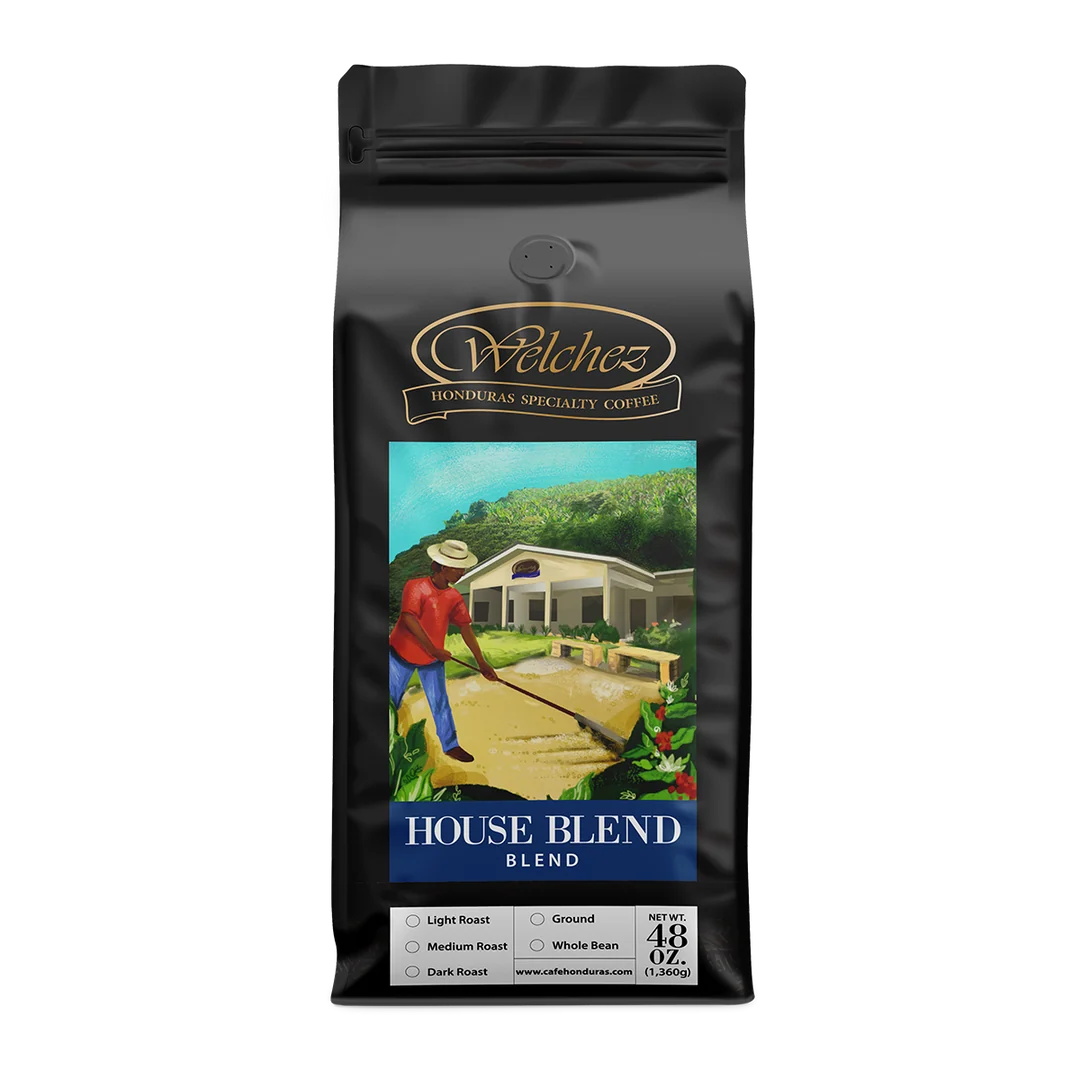
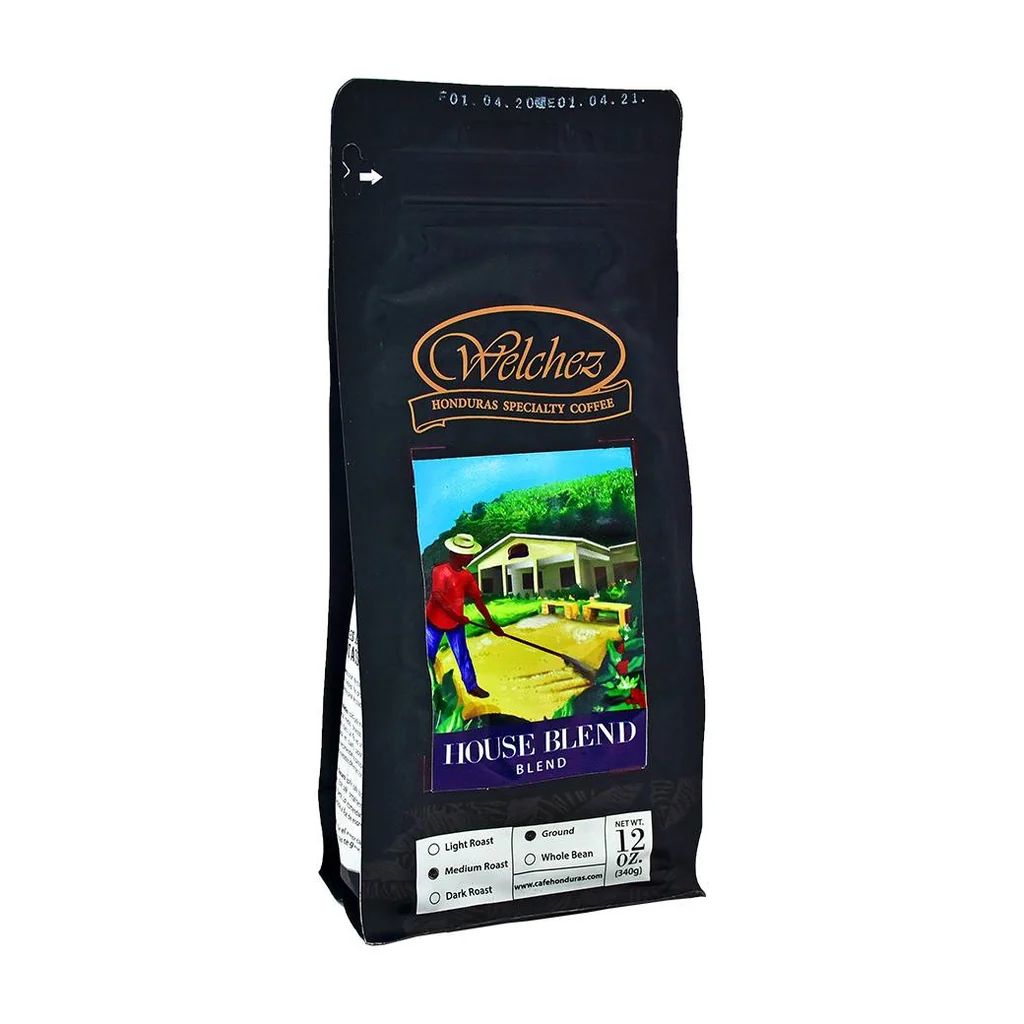
Update pricing, shipping threshold, partner brands, and Welchez images
- Raise all partner brand prices to 3x–4x Honduras retail markup
- Remove Welchez Seasonal Blend and Signature Blend products
- Update free shipping threshold from $60 to $100 (FedEx/DHL Express, worldwide)
- Replace Welchez product images with new photos
- Remove 48oz size options from Welchez; all Café Maya products now 12oz only
- Update llms.txt with full product catalog, correct prices, and partner brands

Changed region(s): [[0.2812, 0.0312, 0.7188, 0.9375]]

diff --git a/src/data/products.ts b/src/data/products.ts
@@ -30,7 +30,7 @@ export const products: Product[] = [
     prices: { '250g': 18, '500g': 32, '1kg': 58 },
     image: '/images/balam.jpg',
     metaTitle: 'Balam Dark Roast — Single Origin Honduras Coffee | Mayan Origin',
-    metaDescription: 'Balam is a single origin dark roast specialty coffee from Copán, Honduras — 1,400–1,600 masl. Dark chocolate, smoky cedar, dried cherry. Direct trade from CAFICO cooperative. Free shipping over $60.',
+    metaDescription: 'Balam is a single origin dark roast specialty coffee from Copán, Honduras — 1,400–1,600 masl. Dark chocolate, smoky cedar, dried cherry. Direct trade from CAFICO cooperative. Free Express shipping over $100.',
   },
   {
     slug: 'ixchel',
@@ -45,7 +45,7 @@ export const products: Product[] = [
     prices: { '250g': 19, '500g': 34, '1kg': 62 },
     image: '/images/ixchel.jpg',
     metaTitle: 'Ixchel Light Roast — Single Origin Honduras Coffee | Mayan Origin',
-    metaDescription: 'Ixchel is a single origin light roast specialty coffee from Copán, Honduras — natural process, 1,500–1,700 masl. Jasmine, white peach, honey finish. Direct trade from CAFICO. Free shipping over $60.',
+    metaDescription: 'Ixchel is a single origin light roast specialty coffee from Copán, Honduras — natural process, 1,500–1,700 masl. Jasmine, white peach, honey finish. Direct trade from CAFICO. Free Express shipping over $100.',
   },
   {
     slug: 'kukulkan',
@@ -60,7 +60,7 @@ export const products: Product[] = [
     prices: { '250g': 17, '500g': 30, '1kg': 55 },
     image: '/images/kukulkan.jpg',
     metaTitle: 'Kukulkan Medium Roast — Single Origin Honduras Coffee | Mayan Origin',
-    metaDescription: 'Kukulkan is a single origin medium roast specialty coffee from Copán, Honduras — honey process, 1,350–1,550 masl. Brown sugar, toasted almond, clean citrus. Direct trade from COCAFCAL. Free shipping over $60.',
+    metaDescription: 'Kukulkan is a single origin medium roast specialty coffee from Copán, Honduras — honey process, 1,350–1,550 masl. Brown sugar, toasted almond, clean citrus. Direct trade from COCAFCAL. Free Express shipping over $100.',
   },
   {
     slug: 'welchez-house-blend',
@@ -72,7 +72,7 @@ export const products: Product[] = [
     origin: 'Copán, Honduras',
     process: 'Natural + Washed',
     altitude: '1,000–1,300 masl',
-    prices: { '12oz': 12, '48oz': 48 },
+    prices: { '12oz': 29 },
     image: '/images/welchez-house-blend.webp',
     brand: 'Café Welchez',
     metaTitle: 'Café Welchez House Blend — Honduras Specialty Coffee | Mayan Origin',
@@ -89,46 +89,12 @@ export const products: Product[] = [
     origin: 'Santa Isabel Farm, Copán, Honduras',
     process: 'Washed',
     altitude: '1,000–1,300 masl',
-    prices: { '12oz': 10, '48oz': 38 },
+    prices: { '12oz': 25 },
     image: '/images/welchez-santa-isabel.webp',
     brand: 'Café Welchez',
     metaTitle: 'Café Welchez Santa Isabel — Single Origin Honduras Coffee | Mayan Origin',
     metaDescription: 'Santa Isabel is a single origin light roast from Santa Isabel Farm, Copán, Honduras. Varieties: Parainema, Catuaí, Caturra. Sweet, acidic, chocolatey aroma. Small-batch, direct-trade Honduras coffee.',
     ingredients: '100% Single-Origin Arabica Coffee — Santa Isabel Farm, Copán, Honduras. Varieties: Parainema, Catuaí, Caturra. Nothing added.',
-  },
-  {
-    slug: 'welchez-seasonal-blend',
-    name: 'Seasonal Blend',
-    subtitle: 'Café Welchez',
-    description:
-      'Honduras specialty coffee that changes with every harvest. Sourced by Café Welchez from arabica farms at 1,000–1,300 masl — process varies (washed, honey, natural, or soaking) to showcase what each season delivers. A small-batch Honduras coffee experience that is never quite the same twice.',
-    roast: 'Medium Roast',
-    origin: 'Honduras',
-    process: 'Varies by harvest (washed, honey, natural)',
-    altitude: '1,000–1,300 masl',
-    prices: { '12oz': 12, '48oz': 48 },
-    image: '/images/welchez-seasonal-blend.webp',
-    brand: 'Café Welchez',
-    metaTitle: 'Café Welchez Seasonal Blend — Small-Batch Honduras Coffee | Mayan Origin',
-    metaDescription: 'Café Welchez Seasonal Blend — a small-batch Honduras specialty coffee that changes each harvest. Process varies: washed, honey, or natural. Grown at 1,000–1,300 masl. Ships from Honduras.',
-    ingredients: '100% Arabica Coffee — Honduras. Process and variety vary by harvest season. Nothing added.',
-  },
-  {
-    slug: 'welchez-signature-blend',
-    name: 'Signature Blend',
-    subtitle: 'Café Welchez',
-    description:
-      'A Honduras specialty coffee from microlots at 1,400–1,500 masl. This small-batch blend of Java, Catuaí, and Parainema brings caramelized sugars to the surface — chocolaty flavor with surprising citrus notes, good body, and marked acidity. Roasted by Café Welchez, direct-trade from Copán.',
-    roast: 'Medium Roast',
-    origin: 'Copán, Honduras',
-    process: 'Washed',
-    altitude: '1,400–1,500 masl',
-    prices: { '12oz': 15, '48oz': 60 },
-    image: '/images/welchez-signature-blend.webp',
-    brand: 'Café Welchez',
-    metaTitle: 'Café Welchez Signature Blend — Honduras Specialty Coffee | Mayan Origin',
-    metaDescription: 'Café Welchez Signature Blend — microlot Honduras specialty coffee from Copán, 1,400–1,500 masl. Java, Catuaí, Parainema. Chocolate, citrus, caramelized sugars. Small-batch, direct-trade.',
-    ingredients: '100% Arabica Coffee — Copán, Honduras. Varieties: Java, Catuaí, Parainema. Nothing added.',
   },
   {
     slug: 'cafe-maya-coffee-club',
@@ -140,7 +106,7 @@ export const products: Product[] = [
     origin: 'Honduras',
     process: 'Washed',
     altitude: 'High altitude Honduras',
-    prices: { 'Whole Bean 12oz': 13, 'Ground 12oz': 13 },
+    prices: { 'Whole Bean 12oz': 23, 'Ground 12oz': 21 },
     image: '/images/cafe-maya-coffee-club.webp',
     secondaryImage: '/images/cafe-maya-coffee-club-ground.webp',
     brand: 'Café Maya',
@@ -158,7 +124,7 @@ export const products: Product[] = [
     origin: 'Honduras',
     process: 'Washed',
     altitude: 'High altitude Honduras',
-    prices: { '340g': 14 },
+    prices: { '12oz': 17 },
     image: '/images/cafe-maya-reserva.webp',
     brand: 'Café Maya',
     metaTitle: 'Café Maya Reserva — Premium Honduras Coffee | Mayan Origin',
@@ -175,7 +141,7 @@ export const products: Product[] = [
     origin: 'Finca El Zapote, Siguatepeque, Honduras',
     process: 'Washed',
     altitude: '1,550 masl',
-    prices: { '16oz': 18 },
+    prices: { '16oz': 28 },
     image: '/images/sigua-finca-el-zapote.webp',
     brand: 'Sigua Coffee',
     metaTitle: 'Sigua Coffee Finca El Zapote — Single Origin Honduras Coffee | Mayan Origin',
@@ -192,7 +158,7 @@ export const products: Product[] = [
     origin: 'Honduras (5 regions)',
     process: 'Washed',
     altitude: 'Up to 1,800 masl',
-    prices: { 'Whole Bean 16oz': 24, 'Ground 16oz': 24 },
+    prices: { 'Whole Bean 16oz': 46, 'Ground 16oz': 46 },
     image: '/images/mythoz-classic-whole-bean.webp',
     secondaryImage: '/images/mythoz-classic-ground.webp',
     brand: 'Mythoz Café',

diff --git a/src/pages/api/create-checkout.ts b/src/pages/api/create-checkout.ts
@@ -51,7 +51,7 @@ export const POST: APIRoute = async ({ request }) => {
   }));
 
   const subtotal = items.reduce((s, i) => s + i.price * i.qty, 0);
-  const freeShipping = subtotal >= 60;
+  const freeShipping = subtotal >= 100;
 
   try {
     const session = await stripe.checkout.sessions.create({
